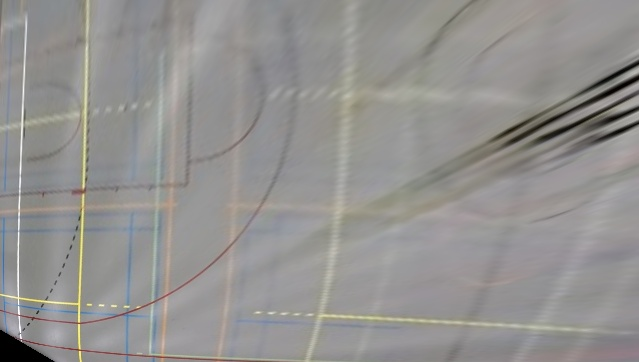
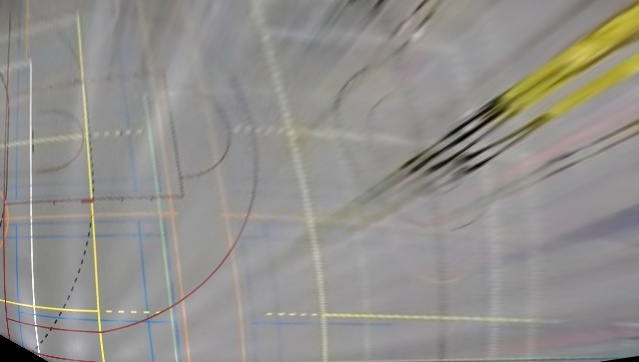
draw polylines to debug coordinates

diff --git a/homography-mapping/demo2.py b/homography-mapping/demo2.py
@@ -8,45 +8,51 @@ import matplotlib.pyplot as plt
 # Read source image.
 img_src = cv2.imread('images/3DBasketballMiddleView.jpg')
 
+# Four corners of the 3D court + mid-court circle point in source image
+# Start top-left corner and go anti-clock wise + mid-court circle point
+pts_src = np.array([
+    [1, 258],       # left bottom - bottom corner
+    [400, 308],     # middle bottom corner
+    [798, 280],     # right bottom - bottom corner
+    [798, 220],     # right bottom - top corner
+    [612, 176],     # top right rorner
+    [186, 168],     # top left corner
+    [3, 201]        # left bottom - top corner
+    ])   
+
+cv2.fillPoly(img_src, [pts_src], 255)
+
 plt.imshow(img_src)
 plt.title('Original')
 plt.show()
 
-# Four corners of the 3D court + mid-court circle point in source image
-# Start top-left corner and go anti-clock wise + mid-court circle point
-pts_src = np.array([
-    [400, 307],     # middle court bottom line
-    [400, 218],     # middle circle bottom point
-    [644, 217],     # right court corder free throw line bottom corner 
-    [570, 189],     # right court corder free throw line top corner
-    [160, 204],     # left court corder free throw line bottom corner
-    [236, 179],     # left court corder free throw line bottom corner
-    ])   
-
 # Read destination image.
 img_dst = cv2.imread('images/2DCourtBasketball.jpg')
-# cv2.imshow("2D", img_dst)
-# cv2.waitKey(0)
-plt.figure()
-plt.imshow(img_dst)
-plt.show()
 
 # Four corners of the court + mid-court circle point in destination image 
 # Start top-left corner and go anti-clock wise + mid-court circle point
 pts_dst = np.array([
-    [317, 351],     # middle court bottom line
-    [317, 221],     # middle circle bottom point
-    [504, 222],     # right court corder free throw line right corner 
-    [504, 137],     # right court corder free throw line left corner
-    [132, 222],     # left court corder free throw line bottom corner
-    [132, 137]      # left court corder free throw line bottom corner
+    [43, 355],       # left bottom - bottom corner
+    [317, 351],      # middle bottom corner
+    [563, 351],     # right bottom - bottom corner
+    [629, 293],     # right bottom - top corner
+    [628, 3],     # top right rorner
+    [8, 4],     # top left corner
+    [2, 299]        # left bottom - top corner
     ])   
+
+cv2.fillPoly(img_dst, [pts_dst], 255)
+
+plt.figure()
+plt.imshow(img_dst)
+plt.show()
 
 # Calculate Homography
 h, status = cv2.findHomography(pts_src, pts_dst)
   
 # Warp source image to destination based on homography
-img_out = cv2.warpPerspective(img_src, h, (img_dst.shape[1], img_dst.shape[0]))
+img_src2 = cv2.imread('images/3DBasketballMiddleView.jpg')
+img_out = cv2.warpPerspective(img_src2, h, (img_dst.shape[1], img_dst.shape[0]))
 cv2.imshow("Warped", img_out)
 cv2.waitKey(0)
 

diff --git a/homography-mapping/demo.py b/homography-mapping/demo.py
@@ -1,29 +1,50 @@
 import cv2
 import numpy as np
+import matplotlib.pyplot as plt
 
 # Read source image.
 img_src = cv2.imread('images/3DCourtBasketball.jpg')
-cv2.imshow("3D", img_src)
-cv2.waitKey(0)
 
 # Four corners of the 3D court + mid-court circle point in source image
-# Start top-left corner and go anti-clock wise + mid-court circle point
-pts_src = np.array([[125, 128], [70, 350], [622, 163], [391, 112], [488, 140]])
+pts_src = np.array([
+    [126, 113],     # top left corner
+    [67, 378],      # bottom left corner (top)
+    [143, 379],     # bottom left corner (bottom)
+    [637, 150],     # bottom right corner
+    [435, 103]      # top right corner
+])
+
+cv2.polylines(img_src, [pts_src], isClosed=True, color=[255,0,0], thickness=2)
+
+plt.imshow(img_src)
+plt.title('Original')
+plt.show()
 
 # Read destination image.
 img_dst = cv2.imread('images/2DCourtBasketball.jpg')
-cv2.imshow("2D", img_dst)
-cv2.waitKey(0)
 
 # Four corners of the court + mid-court circle point in destination image 
 # Start top-left corner and go anti-clock wise + mid-court circle point
-pts_dst = np.array([[8, 7], [8, 355], [631, 355], [631, 7], [320, 224]])
+pts_dst = np.array([
+    [8, 7],         # top left corner
+    [4, 333],       # bottom left corner (top)
+    [32, 355],       # bottom left corner (bottom)
+    [631, 355],     # bottom right corner
+    [631, 7]       # top right corner
+])
+
+cv2.polylines(img_dst, [pts_dst], isClosed=True, color=[255,0,0], thickness=2)
+
+plt.imshow(img_dst)
+plt.title('Original')
+plt.show()
 
 # Calculate Homography
 h, status = cv2.findHomography(pts_src, pts_dst)
   
 # Warp source image to destination based on homography
-img_out = cv2.warpPerspective(img_src, h, (img_dst.shape[1], img_dst.shape[0]))
+img_src2 = cv2.imread('images/3DCourtBasketball.jpg')
+img_out = cv2.warpPerspective(img_src2, h, (img_dst.shape[1], img_dst.shape[0]))
 cv2.imshow("Warped", img_out)
 cv2.waitKey(0)
 

diff --git a/homography-mapping/demo3.py b/homography-mapping/demo3.py
@@ -1,0 +1,57 @@
+#
+# Author Stephan Janssen
+#
+import cv2
+import numpy as np
+import matplotlib.pyplot as plt
+
+# Read source image.
+img_src = cv2.imread('images/3DbeachVolleyMiddleView.jpg')
+
+# Four corners of the 3D court
+# Start top-left corner and go anti-clock wise + mid-court circle point
+pts_src = np.array([
+    [79, 124],      # 1) top left bottom corner
+    [702, 126],     # 2) top right corner
+    [798, 201],     # 3) bottom right (bottom part)
+    [798, 271],     # 4) bottom right (top part)
+    [0, 268],       # 5) bottom left (bottom part)
+    [0, 182]        # 6) bottom left (top part)
+    ])   
+
+cv2.polylines(img_src, [pts_src], isClosed=True, color=[255,0,0], thickness=2)
+
+plt.imshow(img_src)
+plt.title('Original')
+plt.show()
+
+# Read destination image.
+img_dst = cv2.imread('images/2DBeachVolleyball.jpg')
+
+# Four corners of the court + mid-court circle point in destination image 
+# Start top-left corner and go anti-clock wise + mid-court circle point
+pts_dst = np.array([
+    [26, 131],      # 1) top left bottom corner
+    [234, 130],     # 2) top right corner
+    [256, 94],      # 3) bottom right (bottom part)
+    [256, 6],       # 4) top right corner
+    [6, 6],         # 5) top left corner
+    [7, 99]         # 6) bottom left corner
+    ])   
+
+cv2.polylines(img_dst, [pts_dst], isClosed=True, color=[255,0,0], thickness=2)    
+
+plt.figure()
+plt.imshow(img_dst)
+plt.show()
+
+# Calculate Homography
+h, status = cv2.findHomography(pts_src, pts_dst)
+  
+# Warp source image to destination based on homography
+img_src2 = cv2.imread('images/3DbeachVolleyMiddleView.jpg')
+img_out = cv2.warpPerspective(img_src2, h, (img_dst.shape[1], img_dst.shape[0]))
+cv2.imshow("Warped", img_out)
+cv2.waitKey(0)
+
+cv2.imwrite("output/beachVolleyball.jpg", img_out)		
